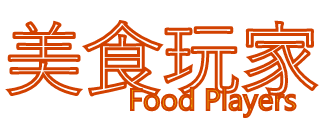
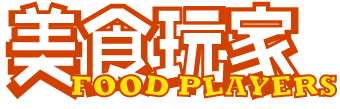
更换首页logo，修复规则界面可滑动bug“

diff --git a/src/views/Rule.vue b/src/views/Rule.vue
@@ -185,6 +185,7 @@ export default {
       font-size .2rem
       color #ffffff
       text-align center
+      overflow hidden
       .up-img-box
         width .8rem
         height .8rem
@@ -195,6 +196,7 @@ export default {
     .rule
       background: url('/img/规则框.png')
       background-size 100% 120%
+      overflow hidden
       .rule_2
         background: url('/img/规则框-2.png')
         background-size 100% 100%
@@ -207,6 +209,7 @@ export default {
         padding 10%
         padding-top 7%
         font-size .15rem
+        overflow hidden
     .togame
       width 100%
       height .5rem
